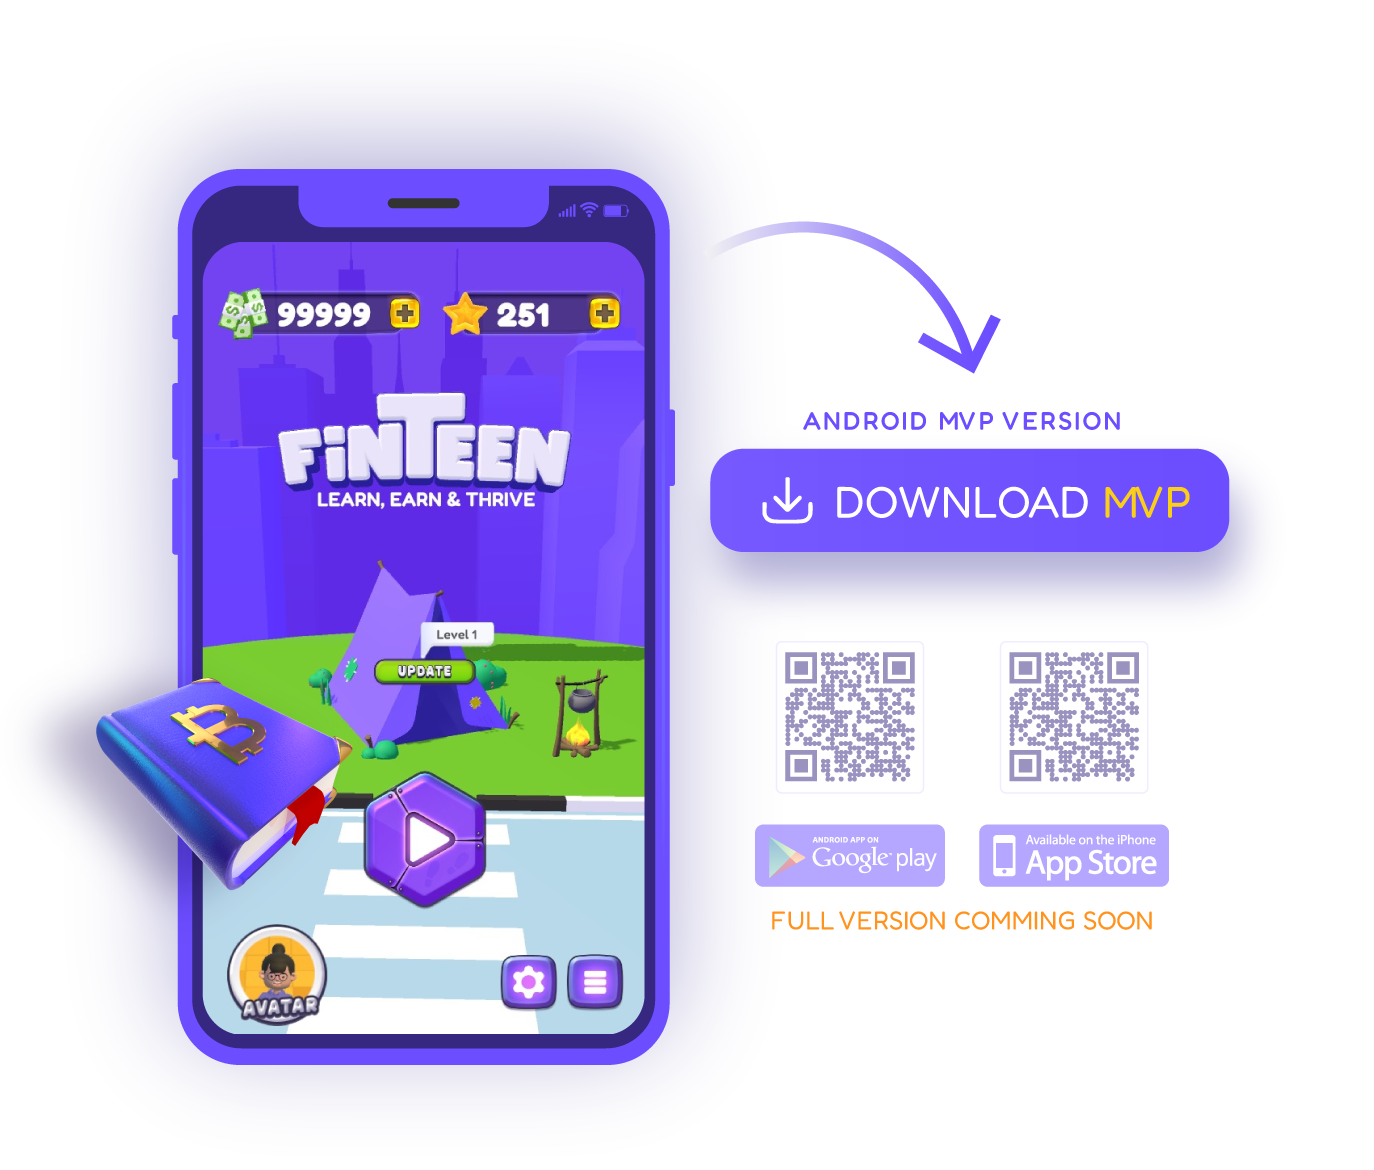
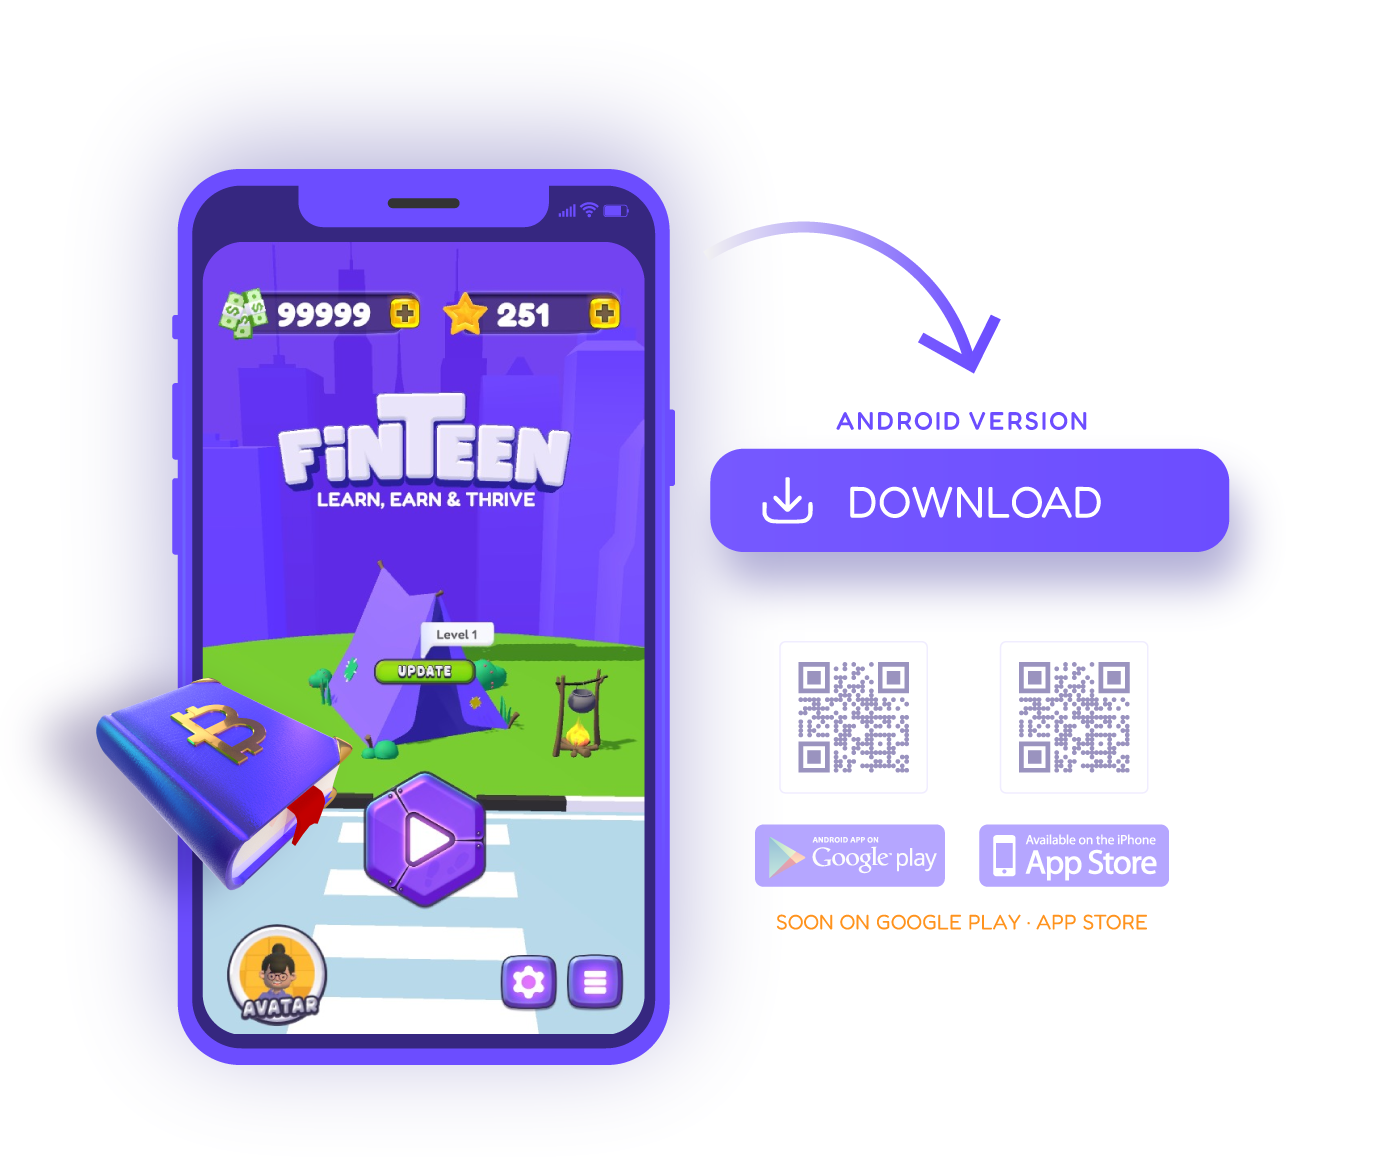
full version download

diff --git a/index.html b/index.html
@@ -3,7 +3,8 @@
 <head>
   <meta charset="UTF-8">
   <meta name="viewport" content="width=device-width, initial-scale=1">
-  <link rel="icon" type="image/x-icon" href="images/fav.png">
+<link rel="icon" type="image/png" href="images/fav.png">
+
 
   <title>FINTEEN</title>
   <style>
